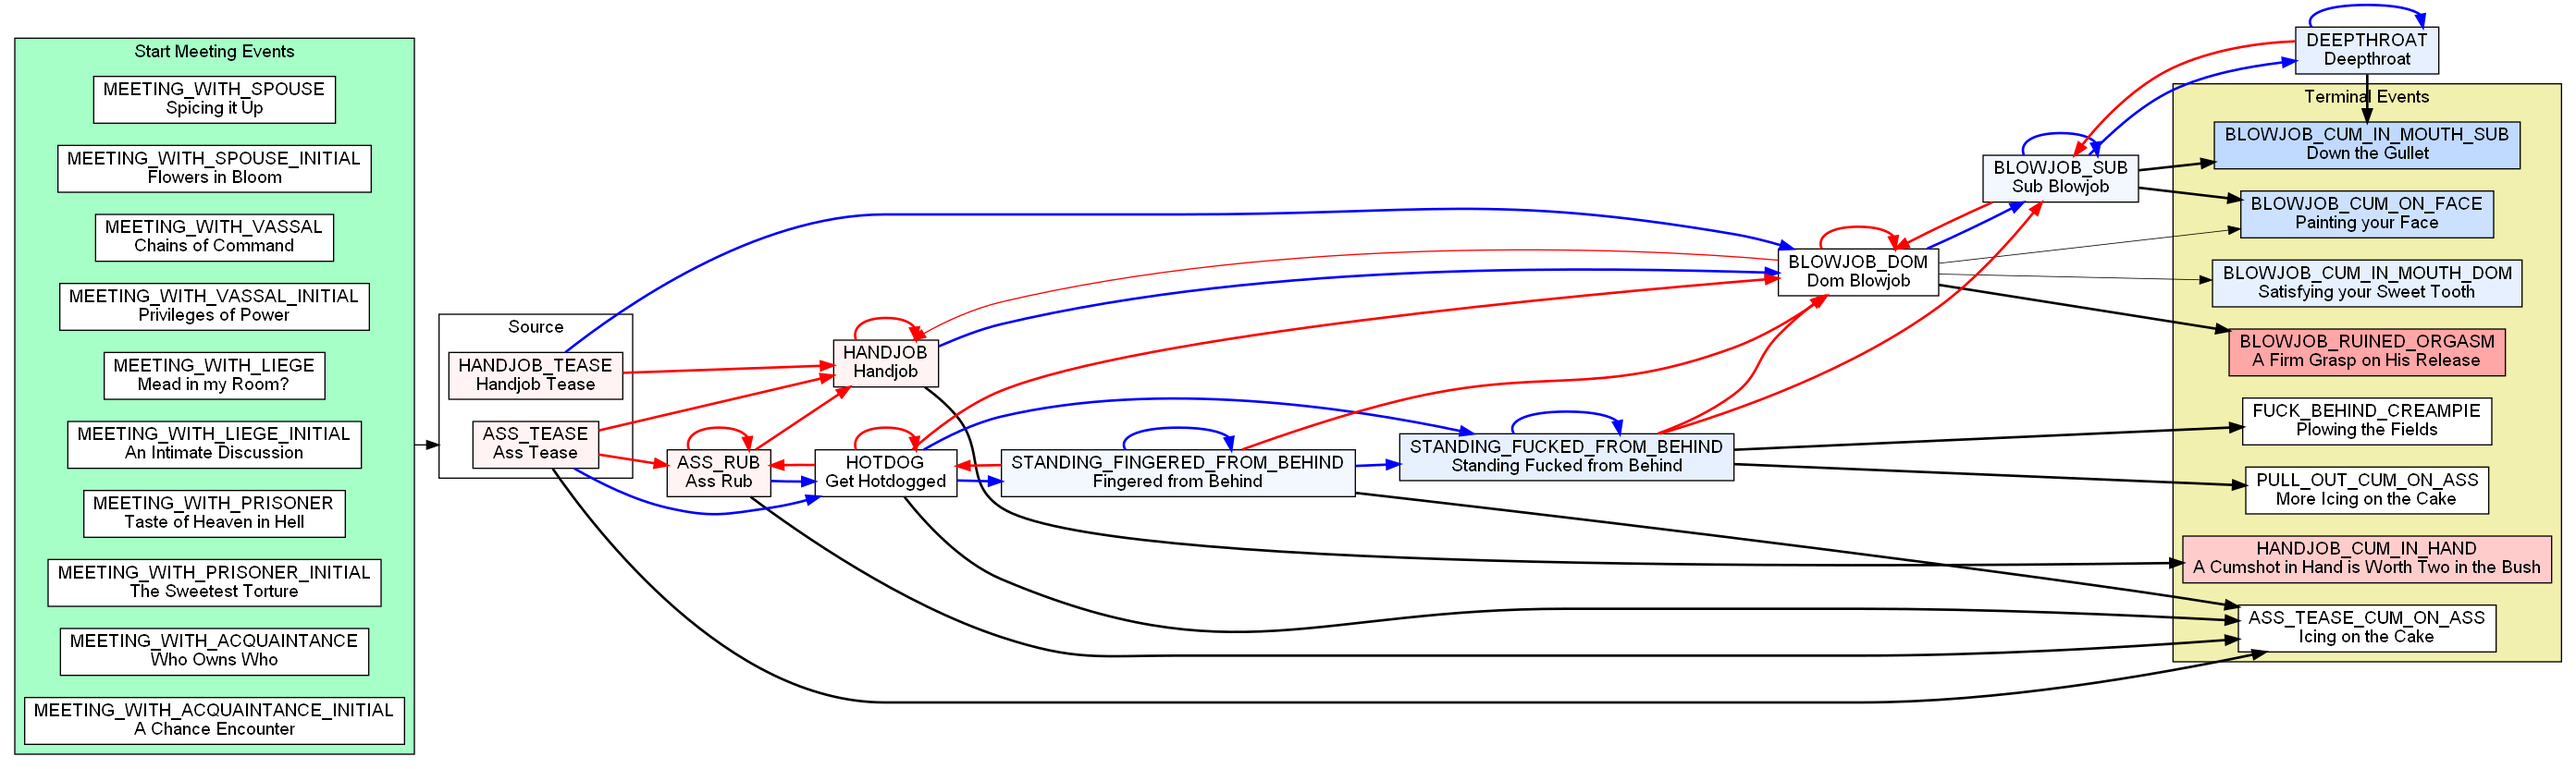
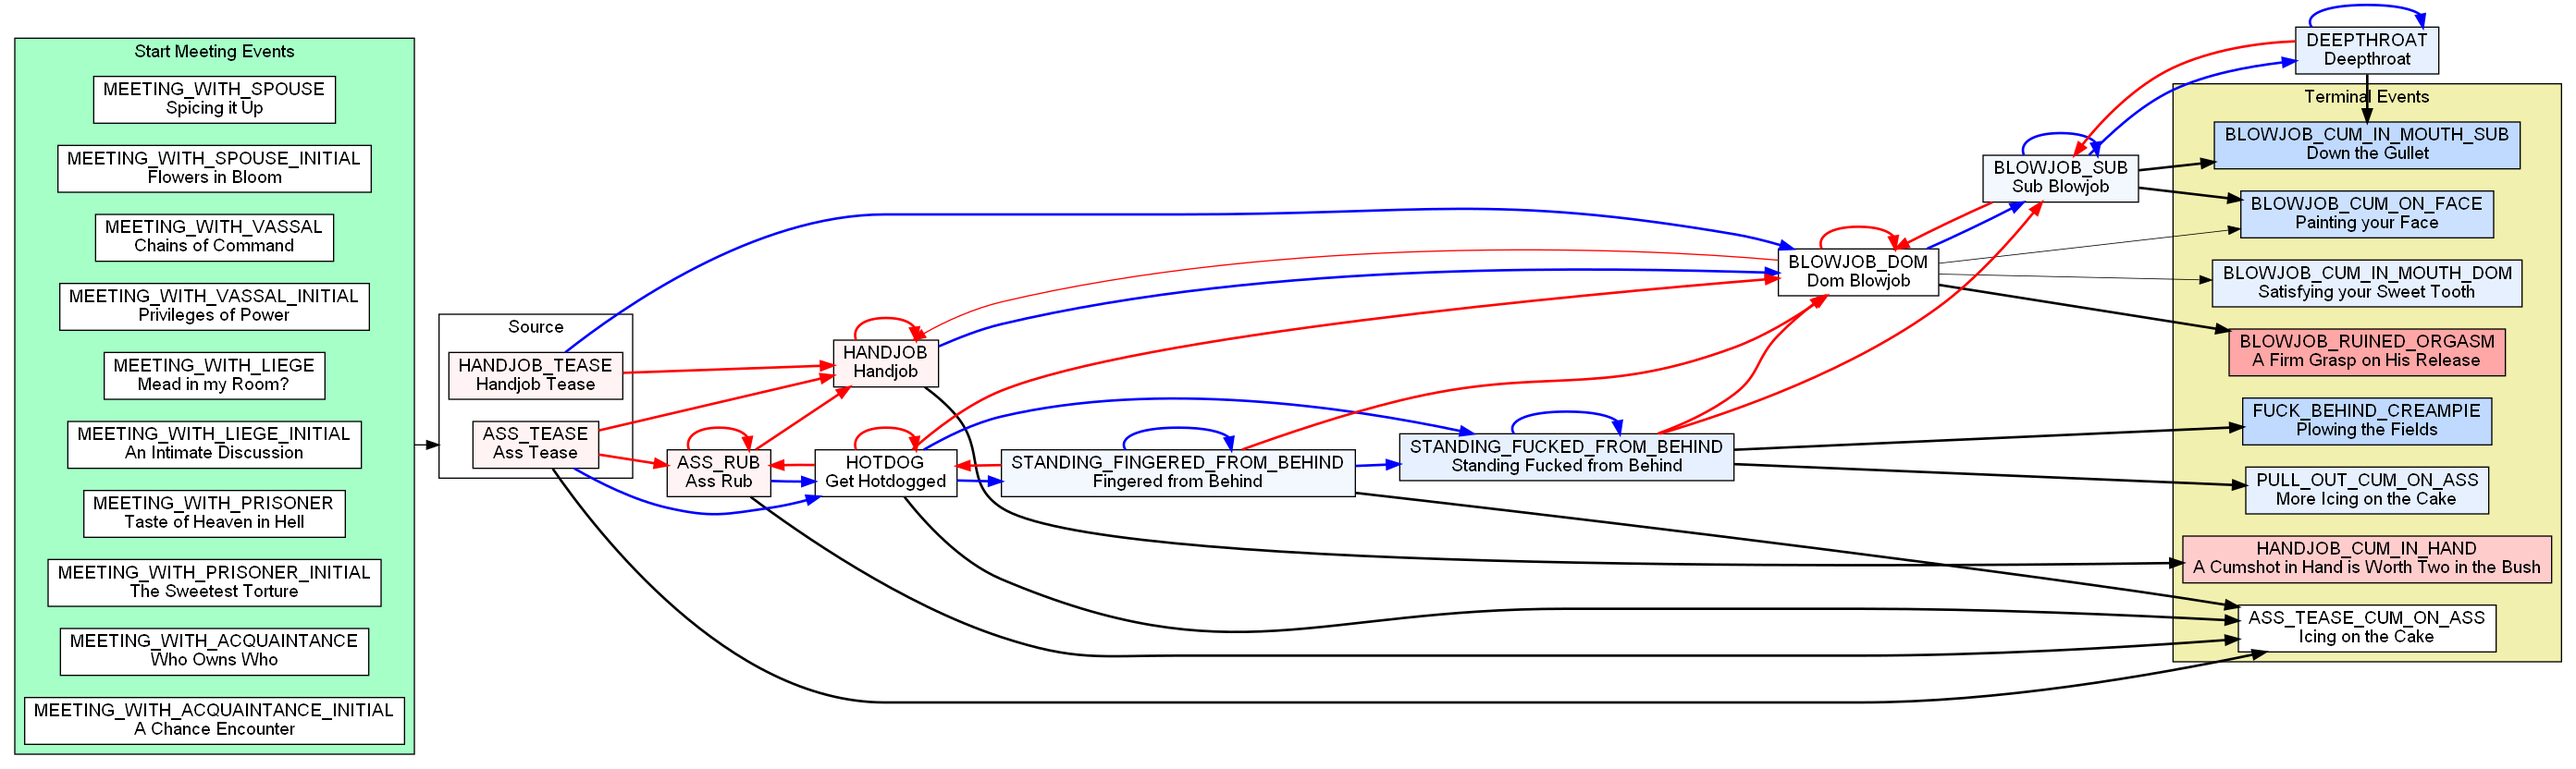
Fill in cum event bodies

Changed region(s): [[0.8434, 0.5, 0.9684, 0.6875]]

diff --git a/generate_events.py b/generate_events.py
@@ -1400,45 +1400,99 @@ def define_sex_events(es: EventMap):
 def define_cum_events(es: EventMap):
     es.add(Cum(EventsCum.HANDJOB_CUM_IN_HAND, "A Cumshot in Hand is Worth Two in the Bush",
                subdom_change=1, root_become_more_dom_chance=20,
-               terminal_option=Option(None, OptionCategory.OTHER, "Wipe your hands on a nearby cloth"),
-               desc=f"""cum in hand desc"""
+               terminal_option=Option(None, OptionCategory.OTHER, "Clean your hands on a nearby cloth"),
+               desc=f"""
+               His back arches, thrusting forward into an imaginary womb, and spurts his load onto your open palm.
+               \\n\\n
+               "That's it?" you say as you wipe his seed onto his chest, "How do you hope to please any
+               woman with that pathetic stamina?" His #dom dejected look 
+               pleases#! you #italic - maybe your personality is twisted?#!"""
                ))
     es.add(Cum(EventsCum.ASS_TEASE_CUM_ON_ASS, "Icing on the Cake",
                subdom_change=0,
                terminal_option=Option(None, OptionCategory.OTHER, "Clean yourself and get dressed"),
-               desc=f"""cum on ass desc"""
+               desc=f"""
+               You don't see it as much as feel it as a splash of warmth on your ass signals the end of
+               this session. Some of it starts sliding, tracing a warm path down your legs. Others stay,
+               a complement to your curves. #italic Is it normal for your thoughts to wander so quickly
+               after sex? Maybe you're just bored.#!"""
                ))
     # TODO add chance of acquiring fetishes
     es.add(Cum(EventsCum.BLOWJOB_CUM_ON_FACE, "Painting your Face",
                subdom_change=-2, root_become_more_sub_chance=20,
                terminal_option=Option(None, OptionCategory.OTHER, "Sample some stray globs of cum"),
-               desc=f"""cum on face desc"""
+               desc=f"""
+               You look up and brace yourself for what's the come. When the first drop hits your face,
+               you flinch and instinctively close your eyes, which was fortunate as you feel a glob
+               land on your eyelids.
+               \\n\\n
+               "You look beautiful covered in my cum," {THEM} say while #sub wiping his cock against your face#!.
+               Taking advantage of your helpless state, he takes some liberties in degrading you,
+               "I've marked you as mine, regardless of who you lay with later. Even when you're with them,
+               you'll think back to this moment with my cum on your face."
+               """
                ))
     es.add(Cum(EventsCum.BLOWJOB_CUM_IN_MOUTH_DOM, "Satisfying your Sweet Tooth",
                subdom_change=-1, root_become_more_sub_chance=10,
                terminal_option=Option(None, OptionCategory.OTHER, "Wipe away any cum that might've escaped"),
-               desc=f"""cum in mouth dom desc"""
+               # TODO triggered text depending on cum fetish
+               desc=f"""
+               {THEM} arches his back and holds your head in place with his hands.
+               You move to free your head, but with his release imminent, he has no intention to listen to orders.
+               Soon, you feel {THEM}'s cock twitch in your mouth followed by a salty deluge.
+               
+               His #sub seed is thick#!, and combined with its salty taste makes it quite conventionally unpalatable.
+               """
                ))
     es.add(Cum(EventsCum.BLOWJOB_CUM_IN_MOUTH_SUB, "Down the Gullet",
                subdom_change=-2, root_become_more_sub_chance=25,
                terminal_option=Option(None, OptionCategory.OTHER, "Recover from having your throat used so roughly"),
-               desc=f"""cum in mouth sub desc"""
+               desc=f"""
+               {THEM} holds your head in place while his last thrust goes deeper than before.
+               His dick twitches and shoots out his seed in a steady stream. It fills up your mouth,
+               and he makes no moves to extricate his member. 
+               \\n\\n
+               "Swallow it," he says in a commanding tone.
+               \\n\\n
+               As you have no choice apart from drowning, you swallow it. Fortunately or not, since he
+               thrusted so deeply, most of it was shot into the back of your throat where you cannot taste it.
+               You #sub gulp audibly and take it all down#!.
+               """
                ))
     es.add(Cum(EventsCum.BLOWJOB_RUINED_ORGASM, "A Firm Grasp on His Release",
                subdom_change=2, root_become_more_dom_chance=35,
                terminal_option=Option(None, OptionCategory.OTHER, "Leave him yearning and frustrated"),
-               desc=f"""blowjob ruined orgasm desc"""
+               desc=f"""
+               {THEM} arches his back he's clearly about to to climax, but you interrupt by firmly grabbing his
+               shaft close to his body. Even if he wanted to, he physically cannot release his seed.
+               "Did I say you could cum?" You cruelly intone as you grasp his balls with your other hand.
+               \\n\\n
+               "Please, I'm so close," he whines.
+               \\n\\n
+               "You didn't earn it today," you respond, "maybe next time #dom if you please me.#!"
+               """
                ))
     es.add(Cum(EventsCum.PULL_OUT_CUM_ON_ASS, "More Icing on the Cake",
                subdom_change=-1,
+               root_become_more_sub_chance=10,
                terminal_option=Option(None, OptionCategory.OTHER, "Clean yourself and get dressed"),
-               desc=f"""cum on ass after fucking desc"""
+               desc=f"""
+               Perhaps fearing the consequences of impregnating you, {THEM} pulls out near his limit.
+               He instead shoots his seed on your ass, several spurts of warmth announcing the end of the session.
+               \\n\\n
+               With a #sub smack on your ass#!, "Let's meet again in the future."
+               """
                ))
     es.add(Cum(EventsCum.FUCK_BEHIND_CREAMPIE, "Plowing the Fields",
                subdom_change=-3,
+               root_become_more_sub_chance=25,
                preg_chance_1=1.0,
                terminal_option=Option(None, OptionCategory.OTHER, "Wipe away the cum dripping down your thighs"),
-               desc=f"""creampie after fucked behind desc"""
+               desc=f"""
+               "Ugh," {THEM} grunts as he plunges to the hilt while pulling your head back by your hair,
+               "Your mine now. I'm going to make you my breeding bitch."
+               \\n\\n
+               Your body #sub submits to its conquerer#! and you have no choice but to take his seed into your womb."""
                ))
 
 

diff --git a/README.md b/README.md
@@ -5,7 +5,8 @@ to it. If you're just looking to use it, it's
 better to use the one from release sites (discord or loverslab).
 
 **Copy `dynamic_affairs.mod` just outside this repository to use the mod
-from the repostiory**. This mod depends on Carnalitas
+from the repostiory**. This repository also needs to be called `dynamic_affairs`.
+This mod depends on Carnalitas
 (no restriction on load order).
 
 ## Contribution Guide
@@ -22,8 +23,8 @@ want to code a little bit (just in python, no need to touch paradox script), the
 4. clone (download) your forked repository by clicking the green button, getting a link, then on command line
     type something like `git clone https://github.com/PerplexedPeach/dynamic_affairs` but replace it with the link
     to your own fork.
-5. put the repository under `C:\Users\<username>\Documents\Paradox Interactive\Crusader Kings III\mod\`
-6. add it as a mod in the paradox launcher
+5. put the repository under `C:\Users\<username>\Documents\Paradox Interactive\Crusader Kings III\mod\` (make sure the repository folder is called `dynamic_affairs`)
+6. copy the `dynamic_affairs.mod` file to immediately outside this repository to add it to the launcher
 7. make changes to the code in `generate_events.py` (detailed guide below)
 8. (optional) install [graphviz](https://graphviz.org/download/) to produce a graphical representation of the events,
     which is really helpful for organizing and debugging things
